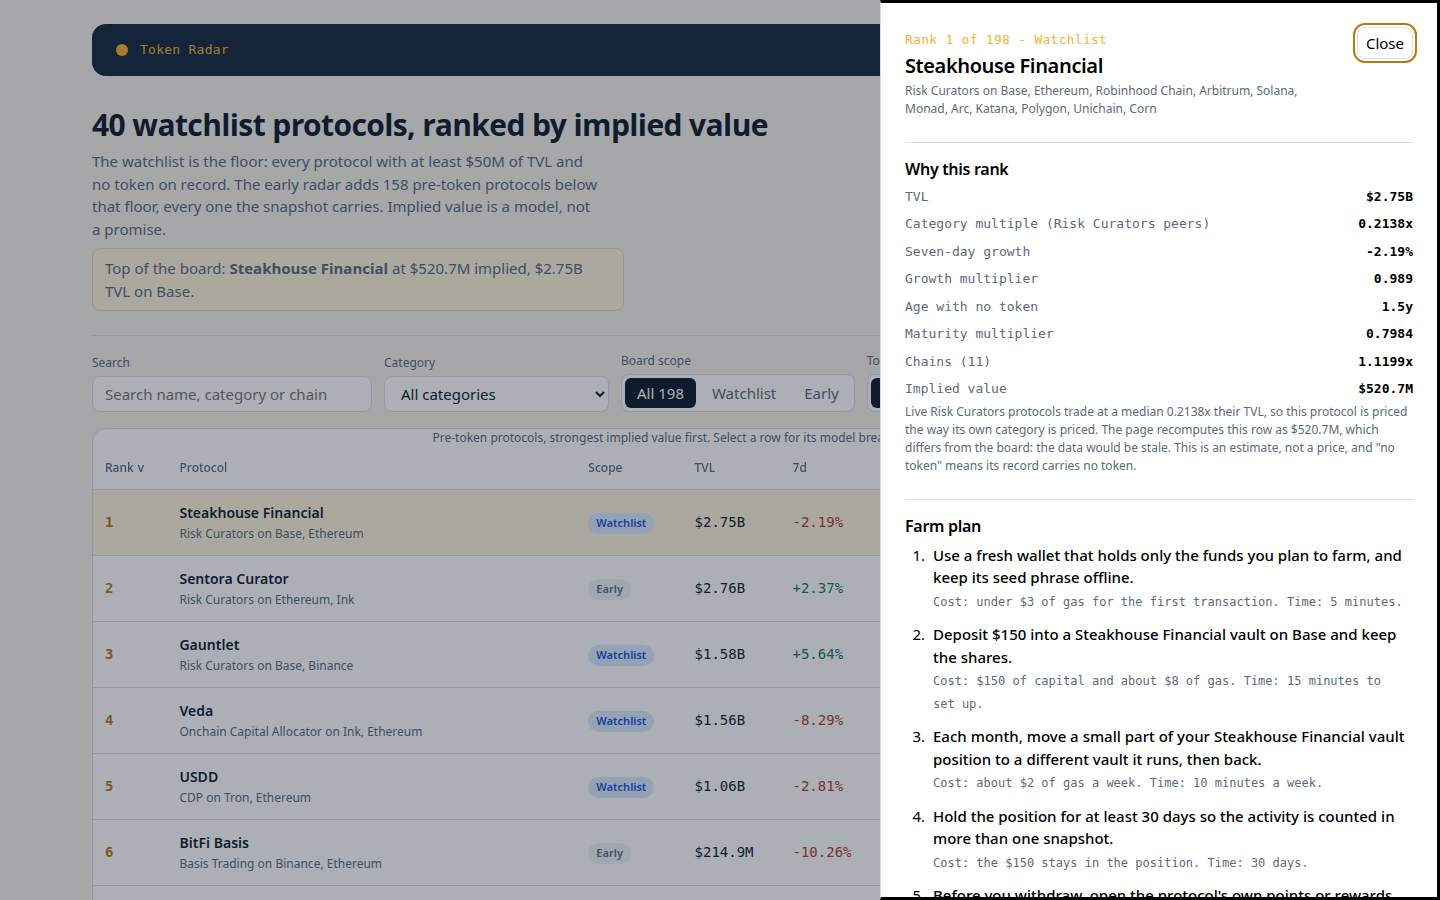
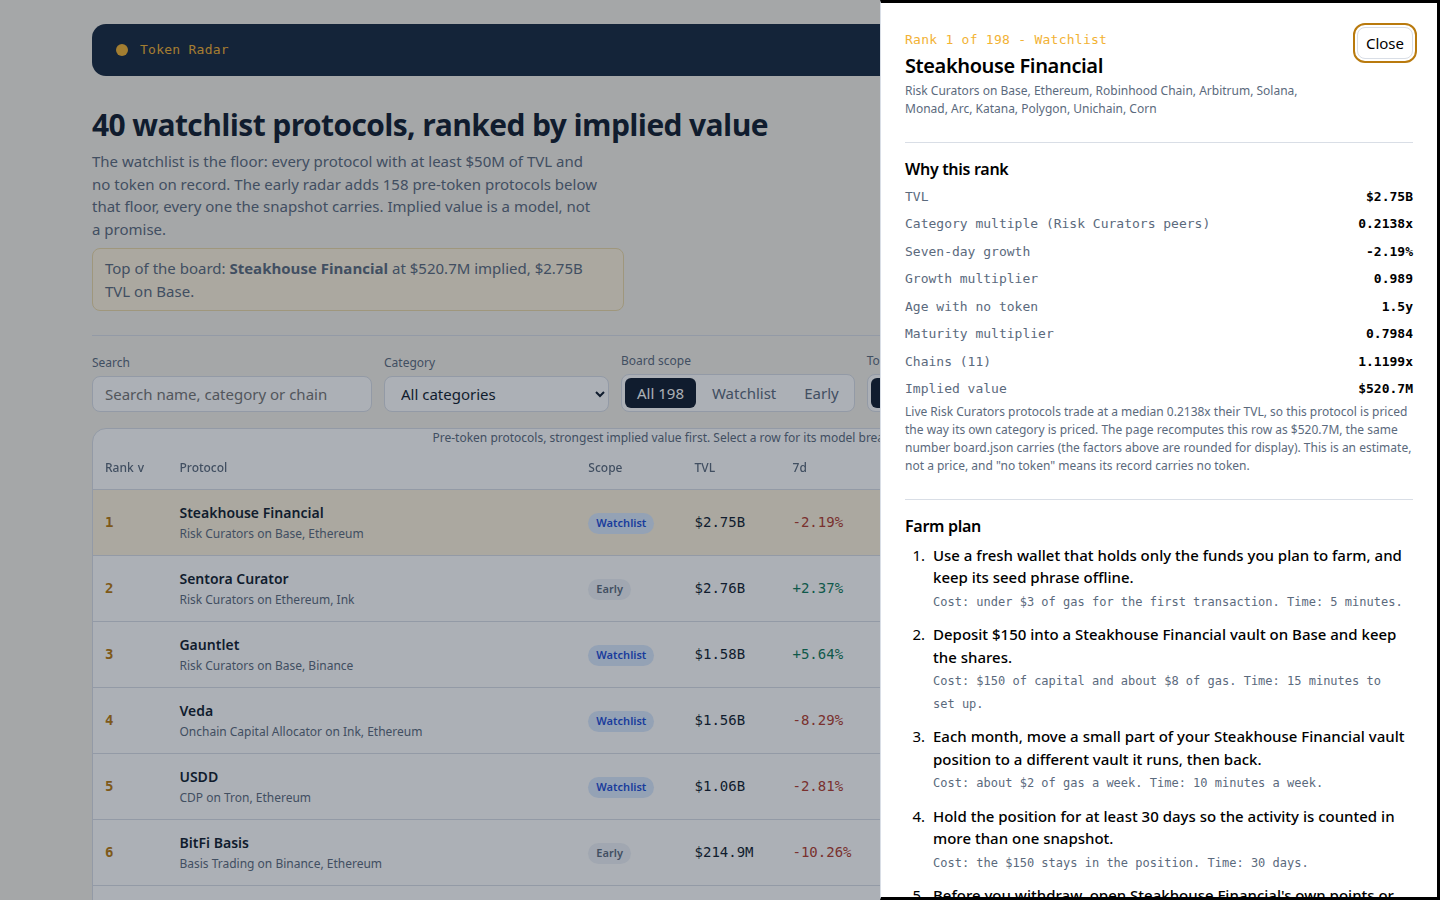
token-radar-01 polish (codex deepseek-v4.1-flash): name protocol+chain in farm step 5; detail dialog tolerates 0.5% recompute rounding instead of flagging stale data; fresh 2-detail screenshot

Changed region(s): [[0.625, 0.4667, 0.9688, 0.5289], [0.7812, 0.9644, 0.9688, 1.0]]

diff --git a/dashboard/app.js b/dashboard/app.js
@@ -123,7 +123,7 @@
       { text: actionFor(p, capital, chain), cost: '$' + capital + ' of capital and about $' + (capital >= 150 ? 8 : 4) + ' of gas', time: '15 minutes to set up' },
       { text: weeklyActionFor(p, chain), cost: 'about $2 of gas a week', time: '10 minutes a week' },
       { text: 'Hold the position for at least ' + hold + ' days so the activity is counted in more than one snapshot.', cost: 'the $' + capital + ' stays in the position', time: hold + ' days' },
-      { text: "Before you withdraw, open the protocol's own points or rewards page and claim only from the link it publishes.", cost: 'no fee to check, and never pay to claim', time: '10 minutes' },
+      { text: "Before you withdraw, open " + p.name + "'s own points or rewards page on " + chain + " and claim only from the link it publishes.", cost: 'no fee to check, and never pay to claim', time: '10 minutes' },
       { text: 'Never pay anyone to claim for you, never sign a transaction you did not read, and treat any direct message about this protocol as a scam.', cost: 'nothing, and it saves the whole position', time: '2 minutes to check each claim' },
       { text: 'Write the wallet, the dates and every transaction in a farm log so you can repeat the position or unwind it.', cost: 'nothing but the log', time: '5 minutes' }
     ].map(stepText);
@@ -366,7 +366,7 @@
         el('div', null, el('span', { text: 'Chains (' + (row.chains || []).length + ')' }), el('b', { class: 'num', text: String(row.chain_multiplier) + 'x' })),
         el('div', null, el('span', { text: 'Implied value' }), el('b', { class: 'num', text: fmtUsd(row.implied_value_usd) }))
       ),
-      el('p', { class: 'sub', text: 'Live ' + (row.category || 'Other') + ' protocols trade at a median ' + row.category_multiple + 'x their TVL, so this protocol is priced the way its own category is priced. The page recomputes this row as ' + fmtUsd(recomputed) + (recomputed === row.implied_value_usd ? ', the same number board.json carries.' : ', which differs from the board: the data would be stale.') + ' This is an estimate, not a price, and "no token" means its record carries no token.' })
+      el('p', { class: 'sub', text: 'Live ' + (row.category || 'Other') + ' protocols trade at a median ' + row.category_multiple + 'x their TVL, so this protocol is priced the way its own category is priced. The page recomputes this row as ' + fmtUsd(recomputed) + (Math.abs(recomputed - row.implied_value_usd) <= Math.max(2, row.implied_value_usd * 0.005) ? ', the same number board.json carries (the factors above are rounded for display).' : ', which differs from the board: the data would be stale.') + ' This is an estimate, not a price, and "no token" means its record carries no token.' })
     ));
     dialog.appendChild(el('section', { class: 'detail-section' },
       el('h3', { text: 'Farm plan' }),

diff --git a/lib/model.ts b/lib/model.ts
@@ -425,7 +425,7 @@ export function farmSteps(p: SnapshotProtocol, age: number | null): FarmStep[] {
       time: `${hold} days`,
     },
     {
-      text: `Before you withdraw, open the protocol's own points or rewards page and claim only from the link it publishes.`,
+      text: `Before you withdraw, open ${p.name}'s own points or rewards page on ${chain} and claim only from the link it publishes.`,
       cost: 'no fee to check, and never pay to claim',
       time: '10 minutes',
     },
